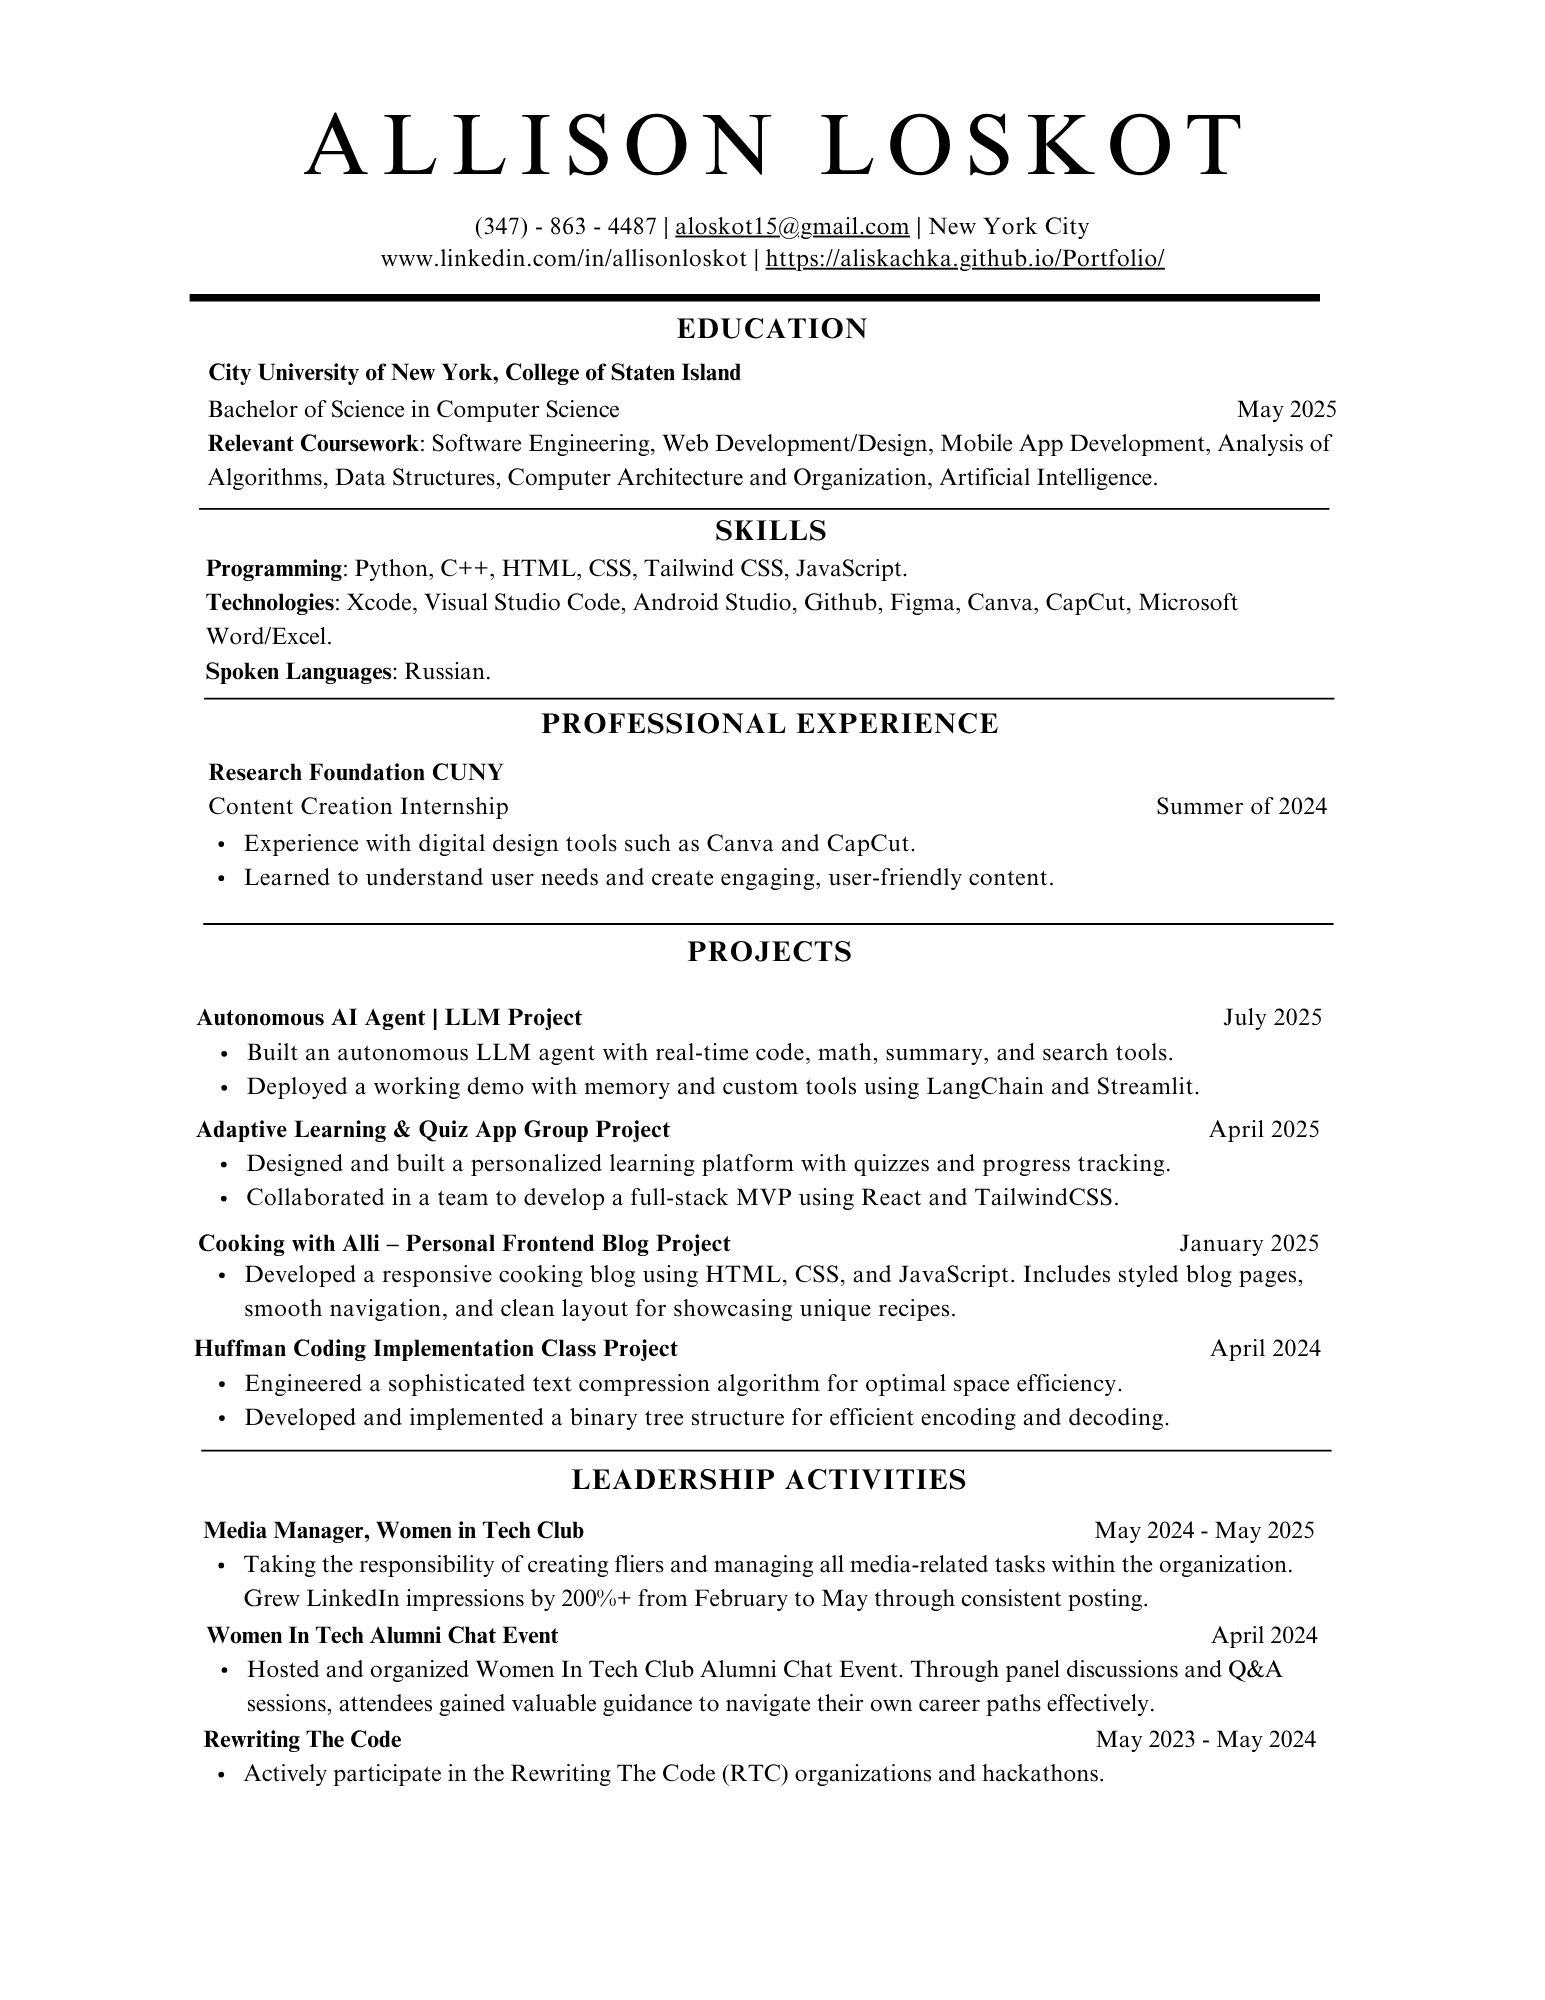
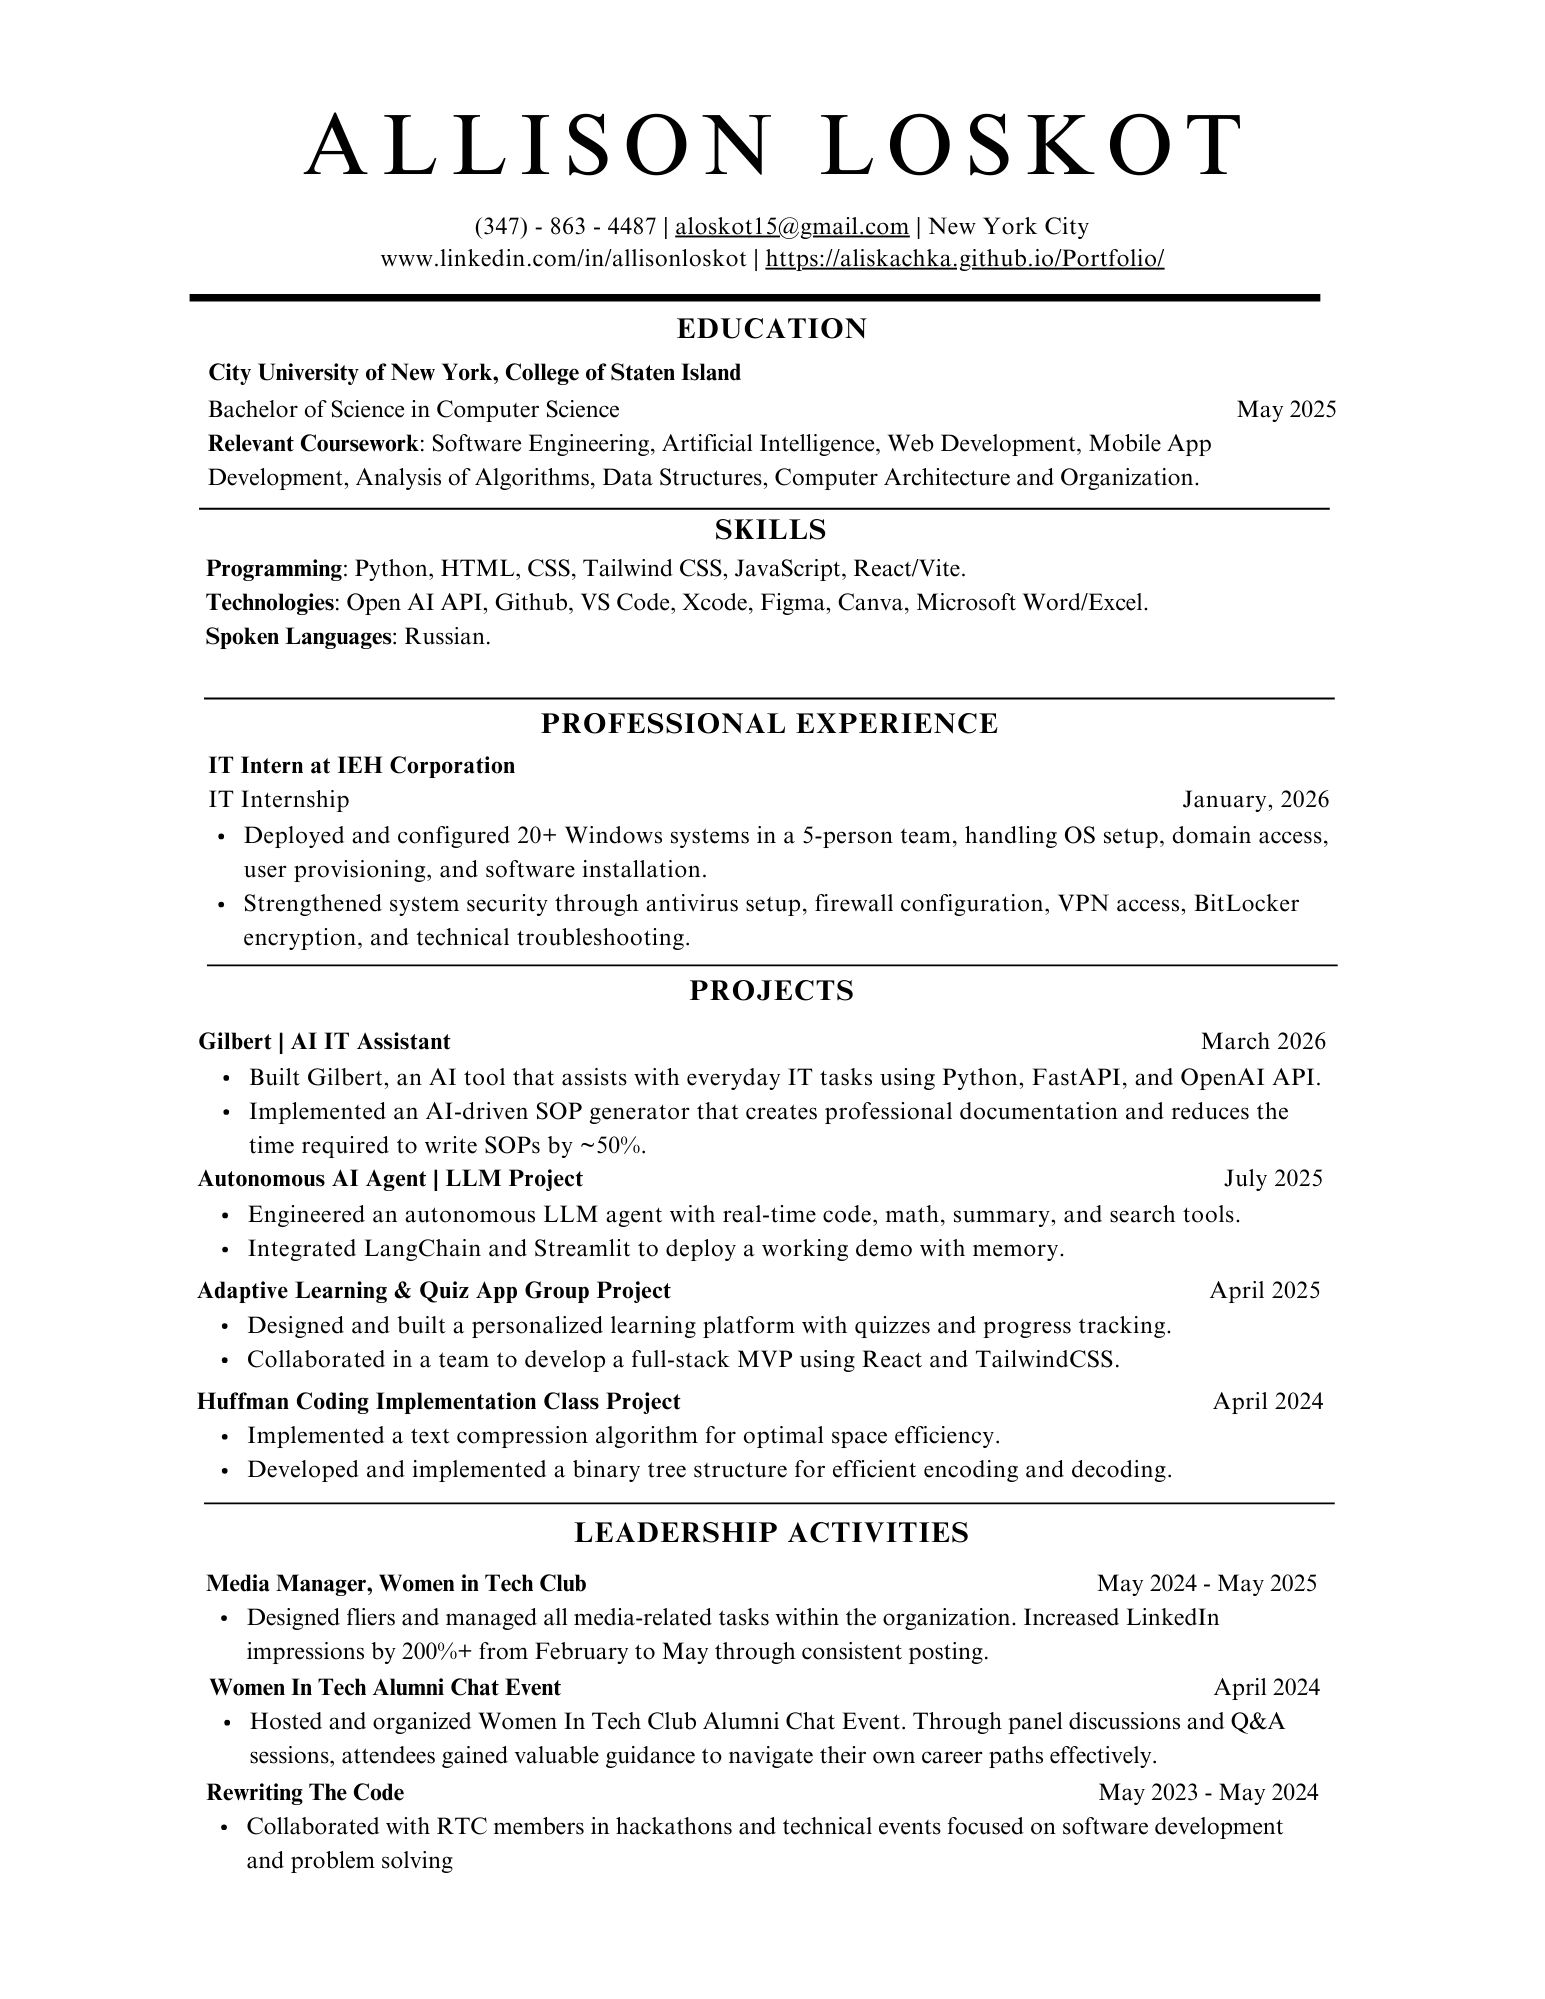
updates with ai

Changed region(s): [[0.1243, 0.3722, 0.8699, 0.9305], [0.1243, 0.2171, 0.8388, 0.3412], [0.3728, 0.3412, 0.6524, 0.3722]]

diff --git a/work.html b/work.html
@@ -33,6 +33,46 @@
     <h1 class="text-4xl font-bold mb-2 text-center">My Work</h1>
     <p class="text-center text-lg mb-12">Scroll through to explore some of my favorite recent projects ↓</p>
 
+<!-- Gilbert -->
+<div class="bg-gray-50 p-6 rounded-lg shadow-sm flex flex-col gap-8 md:flex-row md:items-start my-16 animate-fade-in-up">
+  <!-- Text Content -->
+  <div class="flex-1">
+    <h2 class="text-2xl font-bold mb-2">Gilbert — AI IT Assistant</h2>
+    <p class="text-lg mb-4">
+      Gilbert is a custom AI-powered assistant I built to help improve IT workflow. The project uses many tools to create a simple web interface connected to a backend AI system. Users can enter messy troubleshooting notes, and Gilbert generates a structured update describing the issue, actions taken, and next steps. I’m constantly improving the project by experimenting with new AI features, refining prompts, and adding tools that automate real IT workflows.
+    </p>
+    <a href="https://github.com/aliskachka/gilbert-ai-ticket-bot" target="_blank" rel="noopener noreferrer" class="text-blue-600 underline text-sm">
+      View on GitHub →
+    </a>
+    <div class="flex flex-wrap gap-2 my-4">
+      <span class="px-2 py-1 bg-gray-200 rounded text-sm">#Python</span>
+      <span class="px-2 py-1 bg-gray-200 rounded text-sm">#FastPI</span>
+      <span class="px-2 py-1 bg-gray-200 rounded text-sm">#OpenAI</span>
+      <span class="px-2 py-1 bg-gray-200 rounded text-sm">#React(Vite)</span>
+      <span class="px-2 py-1 bg-gray-200 rounded text-sm">#JavaScript</span>
+    </div>
+    <p class="text-sm text-gray-600">Other Tools used: HTML & CSS, GitHub</p>
+  </div>
+
+  <!-- AI Project Video -->
+  <div class="flex flex-col items-center">
+    <span class="text-sm font-medium italic text-gray-500 mb-2">Demo Video</span>
+    <div class="w-full md:w-[450px] aspect-video overflow-hidden rounded-md shadow-sm">
+      <iframe 
+        src="https://player.vimeo.com/video/1170143713?badge=0&autopause=0&player_id=0&app_id=58479" 
+        frameborder="0" 
+        allow="autoplay; fullscreen; picture-in-picture; clipboard-write; encrypted-media; web-share" 
+        allowfullscreen 
+        class="w-full h-full scale-[1.001] -translate-y-1 transition-transform"
+        title="AI LLM Agent Project">
+      </iframe>
+    </div>
+  </div>
+</div>
+
+<!-- Divider -->
+<hr class="my-12 border-gray-200" />
+
 
 <!-- AI Agent Project -->
 <div class="bg-gray-50 p-6 rounded-lg shadow-sm flex flex-col gap-8 md:flex-row md:items-start my-16 animate-fade-in-up">

diff --git a/index.html b/index.html
@@ -44,14 +44,11 @@ class="w-36 h-36 rounded-full object-cover object-center absolute top-6 right-6 
     <h1 class="text-6xl font-bold leading-tight mb-2">Hi, I’m Allison.</h1>
     <h2 class="text-xl mt-2 text-gray-500 font-light mb-6">Python Software Engineer | AI-Powered Applications</h2>
     <p class="text-lg leading-relaxed">
-      Over the past few years, as AI has skyrocketed in advancement, 
-      I’ve become deeply interested in what it means for the future of 
-      software engineering. With a strong foundation in computer science, 
-      I started building projects that integrate AI into real-world applications 
-      — and quickly fell in love with it.
-At the same time, I’ve been strengthening my Python skills, which I genuinely
- enjoy working with. Currently, I’m an IT intern, and I’m constantly thinking about programs I can build to automate the tasks I do and make everyday work more efficient.
-I spend a lot of time reading about new developments in AI and how it’s shaping our world, and I’m excited to be part of where technology is headed.
+      I’m a Computer Science graduate who became obsessed with making AI do what it’s capable of — and then engineering it to do more.
+      With a strong foundation in computer science, I started building projects that integrate AI into real-world applications, and quickly fell in love it.
+      Right now I’m an IT intern, where I spend a lot of time solving everyday technical problems. That environment constantly gives me ideas for programs I can build to automate parts of the job and make workflows faster and more efficient.
+      My latest project is Gilbert, a custom AI-powered IT assistant I’m building using the OpenAI API and a simple UI interface. Gilbert helps turn my technician notes into structured ticket updates and assists with troubleshooting tasks — essentially performing the same tasks I handle at work, but in a fraction of the time.
+      I enjoy building tools that make real work easier, and I’m excited to keep pushing the boundaries of what AI-powered software can do.
     </p>
   </section>
 
